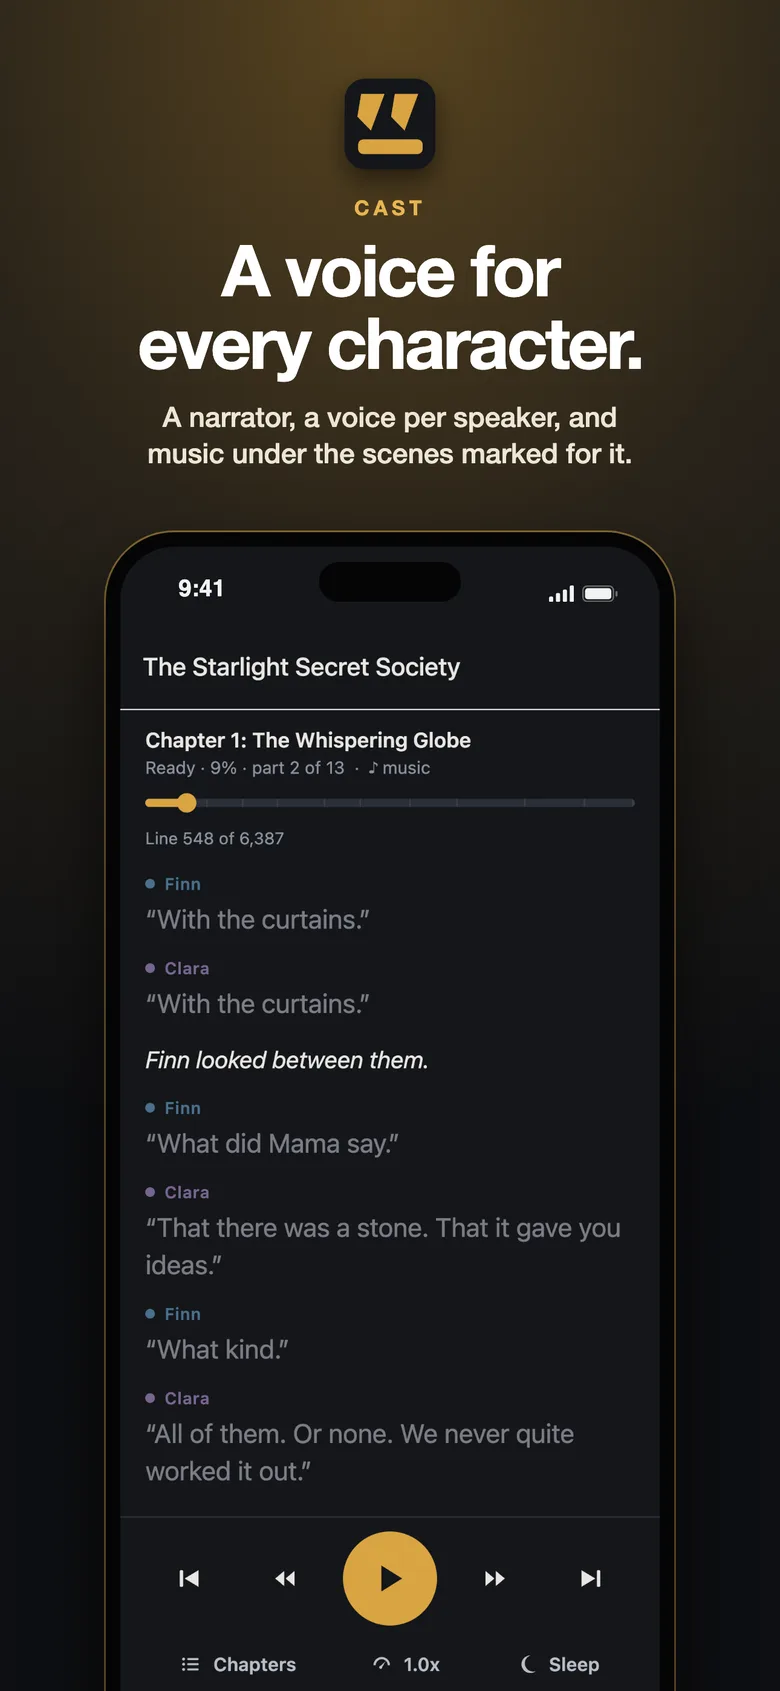
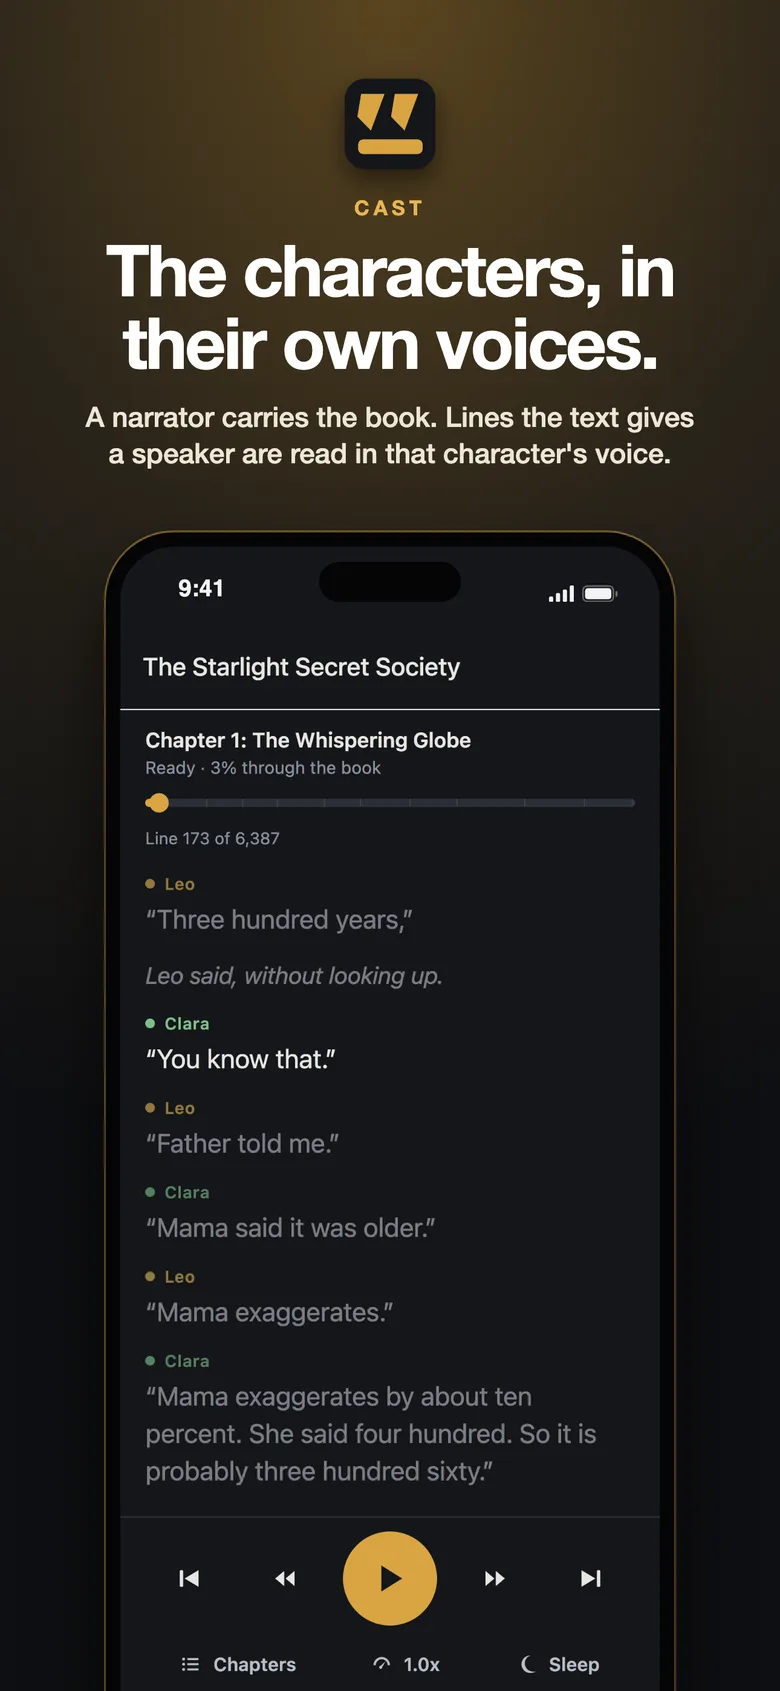
Cast: privacy names the time kept with each book's place (Continue listening); landing states 13 fully and 21 partly cast; store shots 1 and 2 from upgrade R2 captures
Claude-Session: 3686485a-7325-4383-b6d2-31ce4053344a

Changed region(s): [[0.1846, 0.4613, 0.8, 0.8918], [0.1231, 0.123, 0.8923, 0.2768], [0.3077, 0.4305, 0.5538, 0.4613]]

diff --git a/apps/cast/index.html b/apps/cast/index.html
@@ -118,7 +118,7 @@
 <a href="/apps/shots/cast/store-2.webp"><img src="/apps/shots/cast/store-2.webp" alt="Cast, screen 2 of 3" width="240" height="520" loading="lazy" decoding="async"></a>
 <a href="/apps/shots/cast/store-3.webp"><img src="/apps/shots/cast/store-3.webp" alt="Cast, screen 3 of 3" width="240" height="520" loading="lazy" decoding="async"></a>
 </div>
-<div class="lp-split"><div class="lp-box"><h2>Try it</h2><p>Three days of everything, then the price above.</p></div><div class="lp-box"><h2>What the purchase buys</h2><p>All 48 books are in the app, 34 of them performed by a full cast and 14 by a single voice, and the shelf shows which is which. One payment opens every book. It creates no audiobook edition, which is what keeps the free Audible route open on every title.</p></div></div>
+<div class="lp-split"><div class="lp-box"><h2>Try it</h2><p>Three days of everything, then the price above.</p></div><div class="lp-box"><h2>What the purchase buys</h2><p>All 48 books are in the app: 34 with character voices (13 fully cast, 21 partly, where the narrator reads any line the text does not give a speaker) and 14 in a single voice, and the shelf shows which is which. One payment opens every book. It creates no audiobook edition, which is what keeps the free Audible route open on every title.</p></div></div>
 <div class="lp-tip"><p><strong>Support the build.</strong> These apps are made by one independent developer, with no advertising and no investors. If you want to see this one finished, a tip helps pay for the time.</p><p><a class="lp-btn" href="https://jeffreycarrier.gumroad.com/coffee" target="_blank" rel="noopener">Leave a tip<small>Pay what you want, from $3</small></a></p><p class="fine">A tip buys nothing and unlocks nothing. It is a payment to Jeffrey L. Carrier, not a donation to a charity, and it is not tax-deductible.</p></div>
 <div class="lp-foot"><a href="/apps/">All apps and prices</a><a href="/cast/">Support</a><a href="/cast/privacy/">Privacy</a></div>
 </section>

diff --git a/apps/index.html b/apps/index.html
@@ -352,7 +352,7 @@
 <span class="tag">One payment. Never a subscription.</span>
 </div>
 <p class="ap-free"><b>Try it</b>Three days of everything, then the price above.</p>
-<p class="ap-note">All 48 books are in the app, 34 of them performed by a full cast and 14 by a single voice, and the shelf shows which is which. One payment opens every book. It creates no audiobook edition, which is what keeps the free Audible route open on every title.</p>
+<p class="ap-note">All 48 books are in the app: 34 with character voices (13 fully cast, 21 partly, where the narrator reads any line the text does not give a speaker) and 14 in a single voice, and the shelf shows which is which. One payment opens every book. It creates no audiobook edition, which is what keeps the free Audible route open on every title.</p>
 
 <div class="ap-links"><a class="go" href="/apps/cast/">See it &rarr;</a><a class="go" href="/audio/">See the catalogue and what it costs &rarr;</a><a href="mailto:support@carrierpress.com?subject=Cast">Tell me when Cast is out</a><a href="/cast/">Support</a><a href="/cast/privacy/">Privacy</a></div>
 </article>

diff --git a/cast/privacy/index.html b/cast/privacy/index.html
@@ -73,8 +73,9 @@ involved, so nobody learns which book you are listening to or how far you got.</
 <h2>What is stored, on your device</h2>
 
 <ul>
-  <li><strong>Where you are in each book</strong>, as a line number, so a book
-  opens where you left it.</li>
+  <li><strong>Where you are in each book</strong>, as a line number and the time
+  you were last there, so a book opens where you left it and the shelf can offer
+  the one you were listening to last.</li>
   <li><strong>The reading speed you chose</strong>, one number, so the next
   book plays at the same speed.</li>
   <li><strong>When your free trial started</strong>, so the three days run from
@@ -86,7 +87,8 @@ involved, so nobody learns which book you are listening to or how far you got.</
 </ul>
 
 <p>That is the whole list. No name, no email address, no location and no
-listening history beyond that one line number per book is asked for or kept.</p>
+listening history beyond that one line number and time per book is asked for or
+kept.</p>
 
 <p><strong>Nothing above is ever uploaded</strong>, because there is nowhere to
 upload it to.</p>

diff --git a/apps_data.py b/apps_data.py
@@ -313,7 +313,7 @@ APPS = [
          blurb="A book performed with a voice per character and a score under the action. The reading is analysed once per title, offline; the performance happens on your device.",
          status="soon", shape="once", price="$19.99 once",
          free="The opening of every title, free, in full cast: in most books the first chapter or two. Not a clip and not a countdown.",
-         note="All 48 books are in the app, 34 of them performed by a full cast and 14 by a single voice, and the shelf shows which is which. One payment opens every book. It creates no audiobook edition, which is what keeps the free Audible route open on every title.",
+         note="All 48 books are in the app: 34 with character voices (13 fully cast, 21 partly, where the narrator reads any line the text does not give a speaker) and 14 in a single voice, and the shelf shows which is which. One payment opens every book. It creates no audiobook edition, which is what keeps the free Audible route open on every title.",
          link="/audio/", link_label="See the catalogue and what it costs"),
 
     dict(n=34, slug=None, name="Rough-In",

diff --git a/privacy_content.py b/privacy_content.py
@@ -2646,8 +2646,9 @@ involved, so nobody learns which book you are listening to or how far you got.</
 <h2>What is stored, on your device</h2>
 
 <ul>
-  <li><strong>Where you are in each book</strong>, as a line number, so a book
-  opens where you left it.</li>
+  <li><strong>Where you are in each book</strong>, as a line number and the time
+  you were last there, so a book opens where you left it and the shelf can offer
+  the one you were listening to last.</li>
   <li><strong>The reading speed you chose</strong>, one number, so the next
   book plays at the same speed.</li>
   <li><strong>When your free trial started</strong>, so the three days run from
@@ -2659,7 +2660,8 @@ involved, so nobody learns which book you are listening to or how far you got.</
 </ul>
 
 <p>That is the whole list. No name, no email address, no location and no
-listening history beyond that one line number per book is asked for or kept.</p>
+listening history beyond that one line number and time per book is asked for or
+kept.</p>
 
 <p><strong>Nothing above is ever uploaded</strong>, because there is nowhere to
 upload it to.</p>
